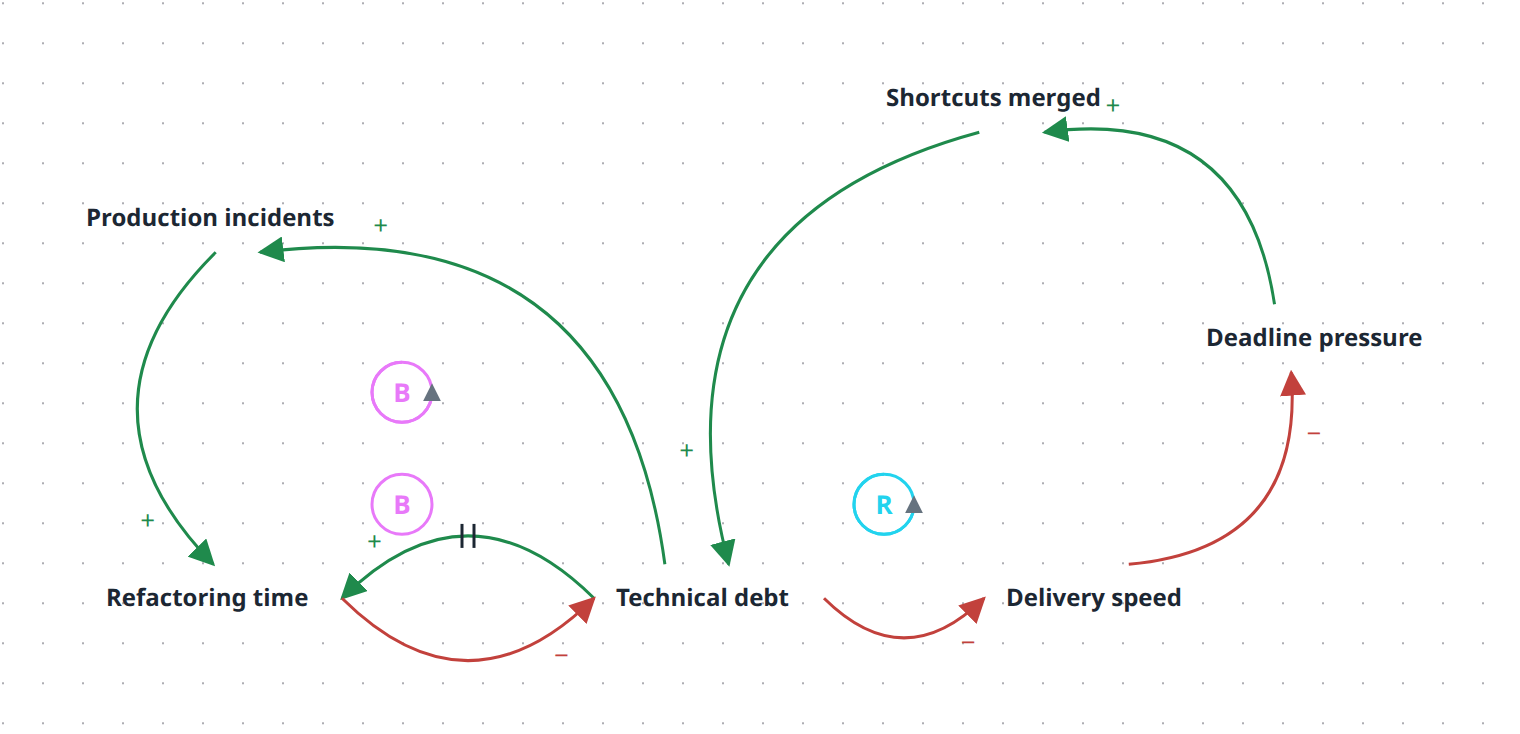
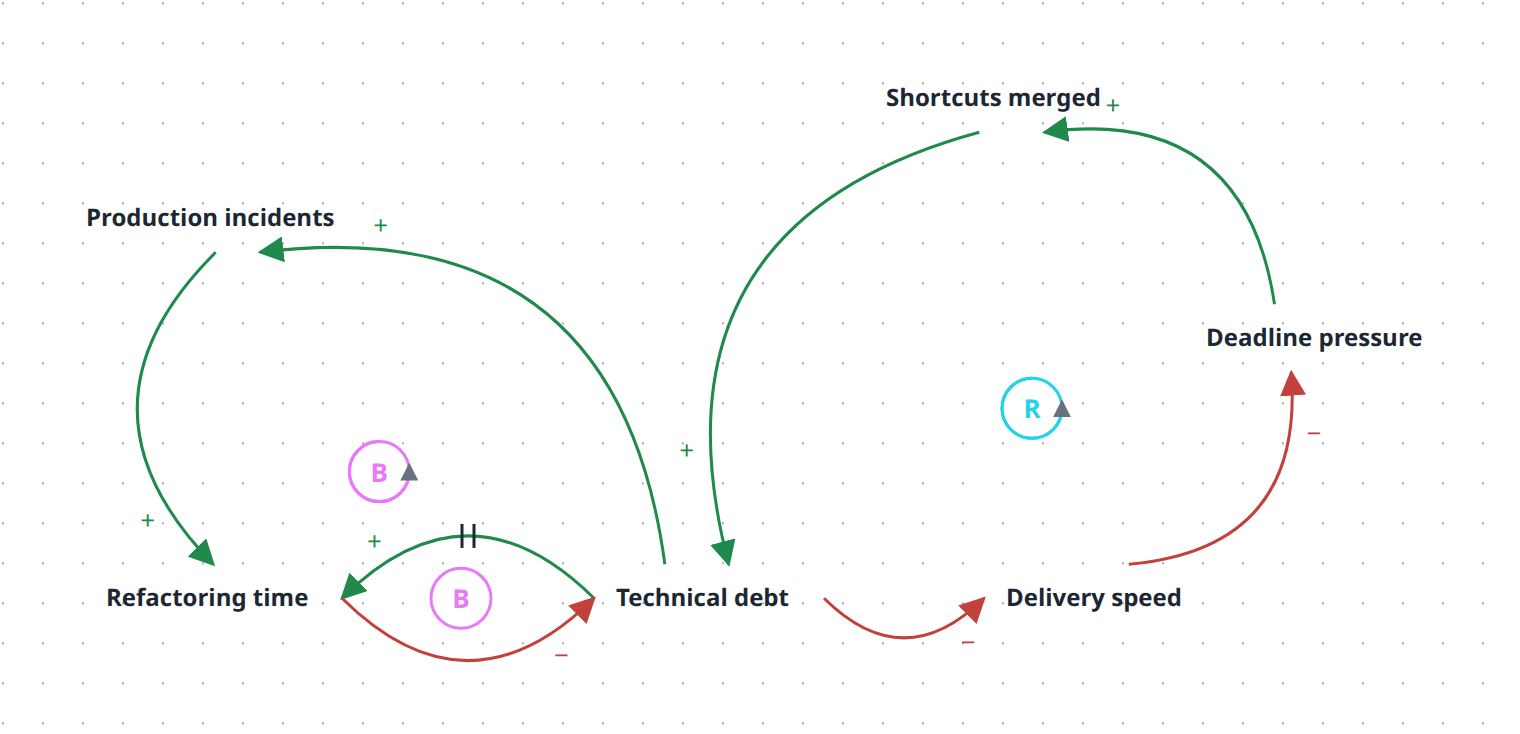
fix(renderer): place causal-loop R/B markers inside their loops (#33)
A marker started off the top-right corner of its loop's min-id node, which
kept markers apart when the layered layout sprawled every loop across the
diagram and all centroids bunched at its middle. The causal-loop default is
now stress, which draws a loop as a ring, so a corner marker read as that
node's rather than the loop's. Start at the centroid of the members' centres;
the existing ring search still nudges it off nodes and away from other
markers.

Re-render the two causal-loop examples.

diff --git a/packages/renderer/src/loops.test.ts b/packages/renderer/src/loops.test.ts
@@ -243,15 +243,15 @@ describe('placeLoopLabels', () => {
       { id: 'e3', from: 'c', to: 'a', polarity: '+' },
     ]).loops;
 
-  it('places a triangle label off the top-right corner of its anchor node, cw when the winding is clockwise on screen', () => {
+  it('places a triangle label at the centroid of its members, cw when the winding is clockwise on screen', () => {
     const rects = new Map<string, NodeRect>([
       ['a', { x: 0, y: 0, width: 20, height: 20 }],
       ['b', { x: 100, y: 0, width: 20, height: 20 }],
       ['c', { x: 50, y: 100, width: 20, height: 20 }],
     ]);
-    // anchored by node 'a' (the loop's canonical first node): a.x+a.width+15+6=41, a.y-15-6=-21
+    // member centres (10,10), (110,10), (60,110) → centroid (60, 130/3), clear of every node
     const placements = placeLoopLabels(triangleLoop(), rects);
-    expect(placements).toEqual([{ key: 'a→b→c', kind: 'R', x: 41, y: -21, direction: 'cw' }]);
+    expect(placements).toEqual([{ key: 'a→b→c', kind: 'R', x: 60, y: 130 / 3, direction: 'cw' }]);
   });
 
   it('flips direction to ccw when member order winds counterclockwise on screen', () => {
@@ -264,17 +264,17 @@ describe('placeLoopLabels', () => {
     expect(placements[0]?.direction).toBe('ccw');
   });
 
-  it('nudges deterministically off an obstacle that covers the raw anchor corner', () => {
+  it('nudges deterministically off an obstacle that covers the centroid', () => {
     const rects = new Map<string, NodeRect>([
       ['a', { x: 0, y: 0, width: 20, height: 20 }],
       ['b', { x: 100, y: 0, width: 20, height: 20 }],
       ['c', { x: 50, y: 100, width: 20, height: 20 }],
     ]);
-    // an obstacle sitting on a's anchor corner (~41,-21) forces a nudge; the ring
+    // an obstacle sitting on the centroid (60, 130/3) forces a nudge; the ring
     // search tries due north one gap-step (36px) out next, clearing it.
-    const blocker: NodeRect = { x: 30, y: -30, width: 22, height: 22 };
+    const blocker: NodeRect = { x: 50, y: 33, width: 20, height: 20 };
     const placements = placeLoopLabels(triangleLoop(), rects, { obstacles: [blocker] });
-    expect(placements).toEqual([{ key: 'a→b→c', kind: 'R', x: 41, y: -57, direction: 'cw' }]);
+    expect(placements).toEqual([{ key: 'a→b→c', kind: 'R', x: 60, y: 130 / 3 - 36, direction: 'cw' }]);
   });
 
   it('keeps two loops sharing two of three nodes at least minLabelGap apart', () => {
@@ -337,8 +337,22 @@ describe('placeLoopLabels', () => {
     ]);
     const hugeObstacle: NodeRect = { x: -1000, y: -1000, width: 2000, height: 2000 };
     const placements = placeLoopLabels(triangleLoop(), rects, { obstacles: [hugeObstacle] });
-    // every candidate is blocked, so it falls back to the raw anchor corner (41,-21)
-    expect(placements).toEqual([{ key: 'a→b→c', kind: 'R', x: 41, y: -21, direction: 'cw' }]);
+    // every candidate is blocked, so it falls back to the centroid itself
+    expect(placements).toEqual([{ key: 'a→b→c', kind: 'R', x: 60, y: 130 / 3, direction: 'cw' }]);
+  });
+
+  // Under the layered layout a loop could sprawl; now it is drawn as a ring, and
+  // a badge off one member's corner read as that node's, not the loop's.
+  it('puts a two-node loop between its members, not beside either', () => {
+    const loops = findLoops([
+      { id: 'e1', from: 'a', to: 'b', polarity: '+' },
+      { id: 'e2', from: 'b', to: 'a', polarity: '-' },
+    ]).loops;
+    const rects = new Map<string, NodeRect>([
+      ['a', { x: 0, y: 0, width: 40, height: 20 }],
+      ['b', { x: 200, y: 0, width: 40, height: 20 }],
+    ]);
+    expect(placeLoopLabels(loops, rects)).toEqual([{ key: 'a→b', kind: 'B', x: 120, y: 10, direction: 'none' }]);
   });
 
   it('omits a loop when a member node has no rect (unmeasured)', () => {
@@ -364,9 +378,9 @@ describe('placeLoopLabels', () => {
     expect(bRect).toBeDefined();
     const obstaclesExcludingC = [aRect as NodeRect, bRect as NodeRect];
     const placements = placeLoopLabels(triangleLoop(), rects, { obstacles: obstaclesExcludingC });
-    // The anchor corner off node 'a' (41,-21) is accepted; only a and b are
+    // The centroid (60,20) lies inside c, and is accepted: only a and b are
     // obstacles and neither covers it.
-    expect(placements).toEqual([{ key: 'a→b→c', kind: 'R', x: 41, y: -21, direction: 'cw' }]);
+    expect(placements).toEqual([{ key: 'a→b→c', kind: 'R', x: 60, y: 20, direction: 'cw' }]);
   });
 });
 

diff --git a/packages/renderer/src/loops.ts b/packages/renderer/src/loops.ts
@@ -272,11 +272,12 @@ function loopDirection(centers: readonly Point[]): 'cw' | 'ccw' | 'none' {
 }
 
 /**
- * Place one R/B/? label per loop, anchored just off the top-right corner of the
- * loop's canonical first node (so a badge sits *by* a node of its loop, not at
- * the diagram's shared centre), then nudged out along concentric rings to clear
- * obstacle rects and stay minLabelGap from already-placed labels — falling back
- * to the raw anchor if every candidate is blocked.
+ * Place one R/B/? label per loop at the centroid of its members' centres — the
+ * loop's interior, where the notation puts it — then nudged out along
+ * concentric rings to clear obstacle rects and stay minLabelGap from
+ * already-placed labels, falling back to the centroid if every candidate is
+ * blocked. Loops sharing a hub have nearby centroids; the ring search is what
+ * keeps their badges apart.
  */
 export function placeLoopLabels(
   loops: readonly Loop[],
@@ -300,13 +301,13 @@ export function placeLoopLabels(
     const memberRects = loop.nodes.map((id) => rects.get(id)).filter((r): r is NodeRect => r !== undefined);
     const centers = memberRects.map(rectCenter);
 
-    // Anchor by the loop's canonical first node (findLoops roots each loop at its
-    // min-id node), just off its top-right corner, so the badge reads as
-    // belonging to that node's loop.
-    const anchor = memberRects[0];
-    if (anchor === undefined) continue;
-    const cx = anchor.x + anchor.width + labelRadius + 6;
-    const cy = anchor.y - labelRadius - 6;
+    // The interior of the loop. This used to be a corner of the loop's first
+    // node, because under the layered layout every loop spanned the diagram and
+    // all centroids bunched at its middle; the causal-loop default is now
+    // stress, which draws a loop as a ring, so the centroid sits inside it.
+    if (centers.length === 0) continue;
+    const cx = centers.reduce((sum, c) => sum + c.x, 0) / centers.length;
+    const cy = centers.reduce((sum, c) => sum + c.y, 0) / centers.length;
 
     const direction = loopDirection(centers);
 
